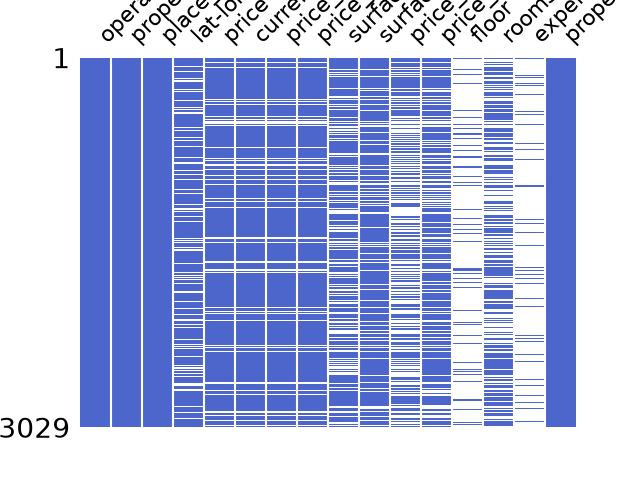
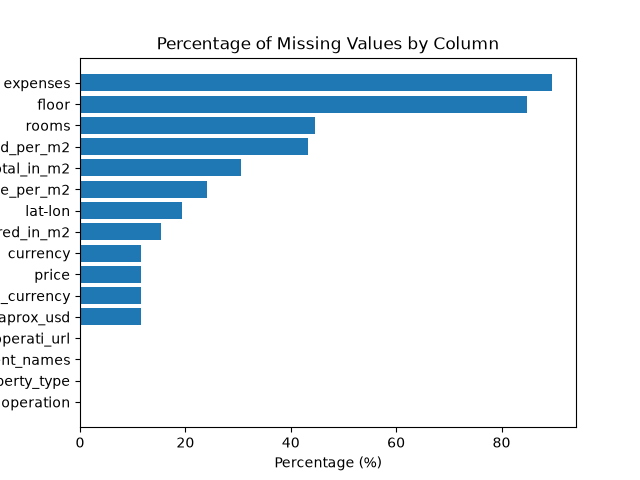
figure overwrite bug fixed and missing visualization saved

diff --git a/Project/Week_Two/Feature_Engineering.py b/Project/Week_Two/Feature_Engineering.py
@@ -70,14 +70,16 @@ if __name__ == "__main__":
     script_dir = os.path.dirname(os.path.abspath(__file__)) 
     df = merged_files()   # <-- no need to pass anything now, uses default
     nan_columns_percentage = (df.isna().sum(axis=0) * 100 / len(df)).sort_values()
-    fig1, ax = plt.subplots()
+    fig, ax = plt.subplots()
     ax.barh(y=nan_columns_percentage.index, width=nan_columns_percentage)
     ax.set_title('Percentage of Missing Values by Column')
     ax.set_xlabel('Percentage (%)')
     ax.set_ylabel('Column')
+    fig.savefig(os.path.join(script_dir, "Outputs","%missingValues.png"), dpi=100)
+    plt.close(fig)
     fig1, ax = plt.subplots()
     msno.matrix(df, color=(0.3, 0.4, 0.8), ax=ax)
-    fig1.savefig(os.path.join(script_dir, "Outputs","%missingValues.png"), dpi=100)
+    fig1.savefig(os.path.join(script_dir, "Outputs","matrix.png"), dpi=100)
     plt.close(fig1)
 
     corr_matrix = df.select_dtypes(include="number").corr()
